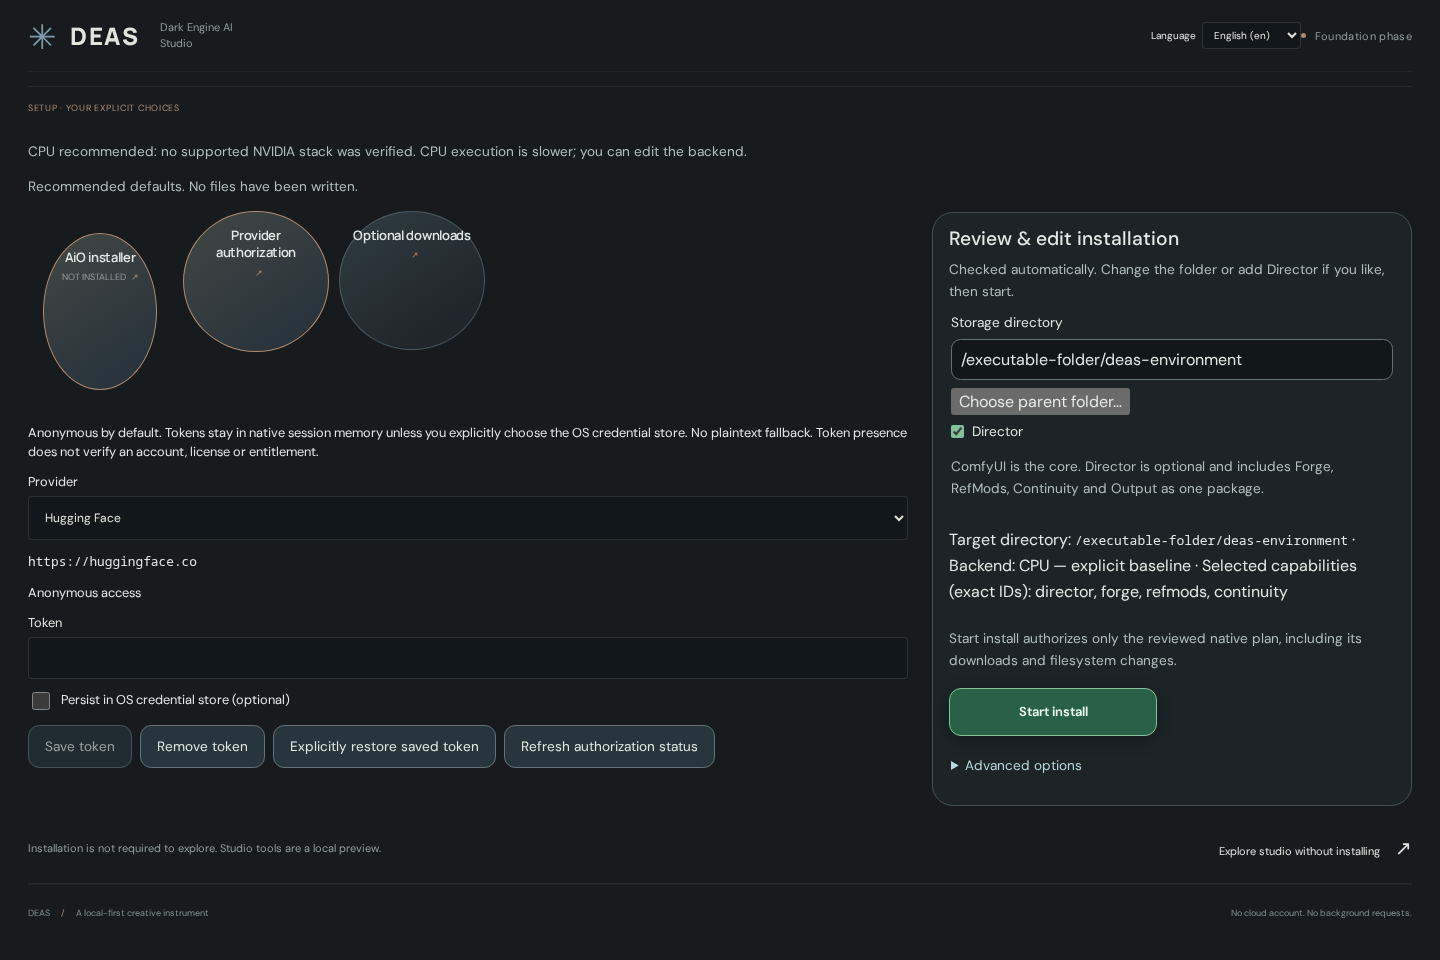
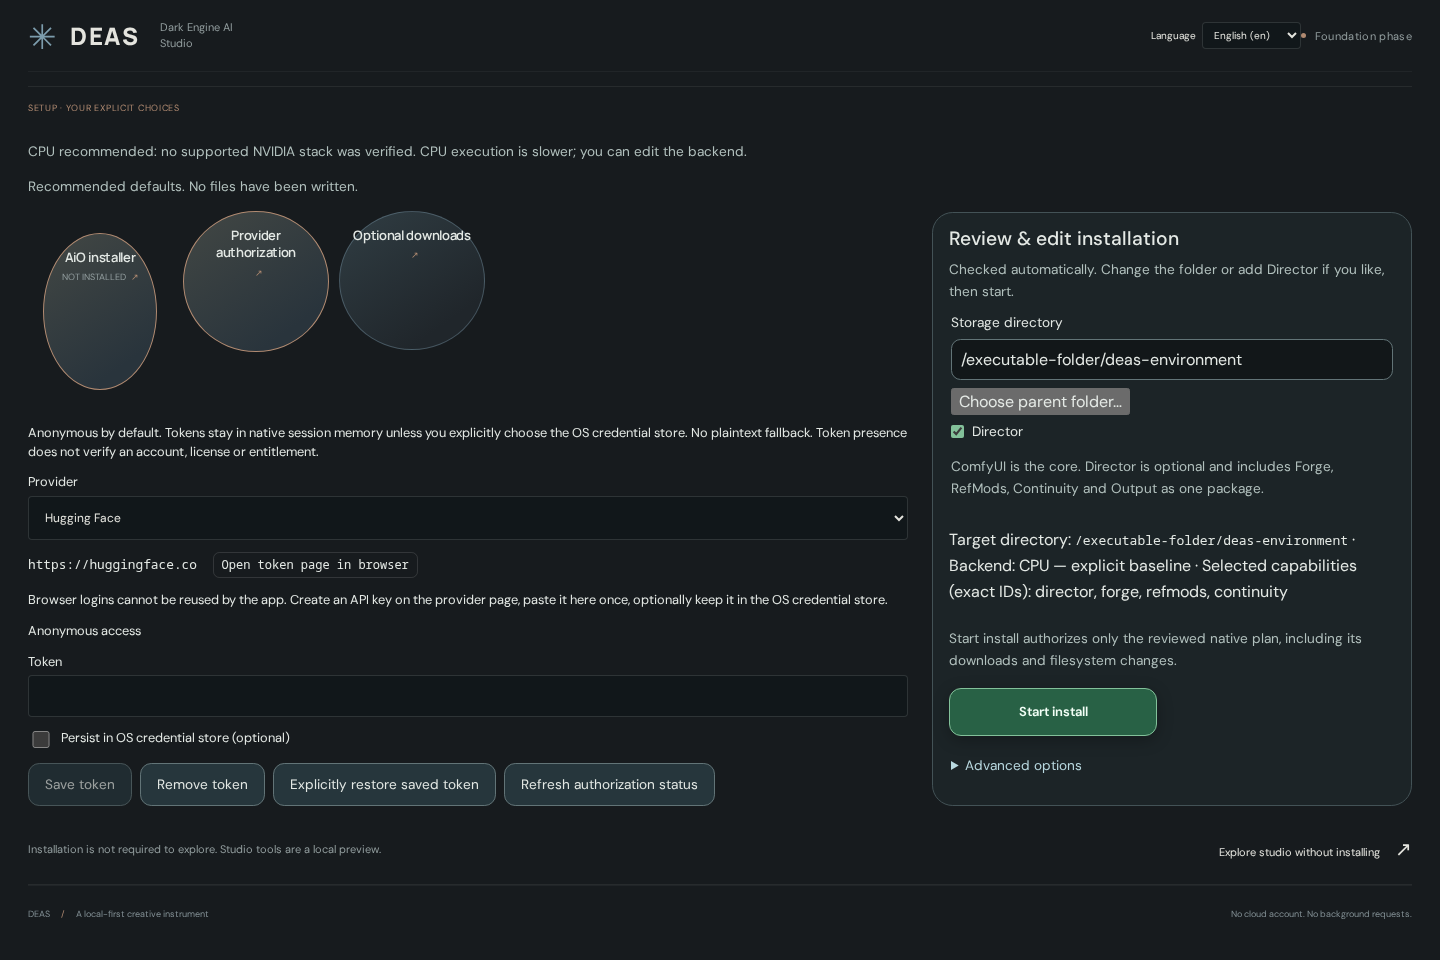
feat: open provider token page in system browser; center studio shell

diff --git a/src/features/downloads/DownloadPluginPanel.tsx b/src/features/downloads/DownloadPluginPanel.tsx
@@ -2,7 +2,7 @@ import { useCallback, useEffect, useRef, useState } from 'react';
 import { isTauri } from '@tauri-apps/api/core';
 import { NeuralBlob } from '../../components/neural/NeuralBlob';
 import { useI18n } from '../../i18n/I18nProvider';
-import { importDownloadCatalog, restoreAuthToken, browseDownloads, cancelDownloads, pickDownloadParent, planDownloads, readAuthStatus, readDownloadCatalog, readDownloadStatus, removeAuthToken, setAuthToken, startDownloads, comfyFolder } from '../../lib/downloads';
+import { importDownloadCatalog, restoreAuthToken, browseDownloads, cancelDownloads, pickDownloadParent, planDownloads, readAuthStatus, readDownloadCatalog, readDownloadStatus, removeAuthToken, setAuthToken, startDownloads, comfyFolder, openTokenPage } from '../../lib/downloads';
 import type { AuthMetadata, CatalogEntry, DownloadCatalog, DownloadListing, DownloadPlan, DownloadResource, DownloadScope, DownloadStatus } from '../../lib/downloads';
 import './downloads.css';
 
@@ -43,7 +43,8 @@ export function AuthPanel({onChange,open:openProp,onToggle}:AuthPanelProps={}) {
   {open&&<div className="download-controls">
    <p className="field-help">{t(io.native?'downloads.tokenHelp':'downloads.browser')}</p>
    <label>{t('downloads.provider')}<select aria-label={t('downloads.provider')} value={providerId} disabled={io.busy} onChange={e=>{clear();io.invalidate();setProviderId(e.target.value);}}>{authProviders.map(p=><option key={p.id} value={p.id}>{p.label}</option>)}</select></label>
-   <p className="download-identity">{authProviders.find(p=>p.id===providerId)?.origin}</p>
+   <p className="download-identity">{authProviders.find(p=>p.id===providerId)?.origin} <button type="button" className="download-link" disabled={!io.native||io.busy} onClick={()=>void io.request(()=>openTokenPage(providerId),()=>{})}>{t('downloads.openTokenPage')}</button></p>
+   <p className="field-help">{t('downloads.tokenPageHelp')}</p>
    <p role="status">{t(current?.configured?'downloads.supplied':'downloads.anonymous')}{current?.persisted&&<> · {t('downloads.persisted')}</>}</p>
    <label>{t('downloads.token')}<input aria-label={t('downloads.token')} ref={token} type="password" autoComplete="off" spellCheck={false} disabled={!io.native||io.busy} onChange={e=>setHasToken(!!e.target.value.trim())}/></label>
    <label className="download-check"><input type="checkbox" checked={persist} disabled={io.busy} onChange={e=>setPersist(e.target.checked)}/>{t('downloads.persist')}</label>

diff --git a/src/features/downloads/DownloadPluginPanel.test.tsx b/src/features/downloads/DownloadPluginPanel.test.tsx
@@ -121,3 +121,7 @@ it('hides adult entries until the NSFW switch is confirmed and sends the flag to
  expect(invoke).toHaveBeenLastCalledWith('native_download_browse',{request:{providerId:'fixture',scope:'index',locator:'https://example.invalid/a.json',authenticated:false,nsfw:true}});
  fireEvent.click(screen.getByRole('switch'));expect(screen.queryByLabelText('Remote file')).toBeNull();expect(confirm).toHaveBeenCalledTimes(2);confirm.mockRestore();
 });
+it('opens the fixed provider token page natively without sending any URL',async()=>{
+ mount(true);click('Provider authorization');fireEvent.change(screen.getByLabelText('Provider'),{target:{value:'civitai'}});click('Open token page in browser');await act(async()=>{});
+ expect(invoke).toHaveBeenCalledWith('native_open_token_page',{providerId:'civitai'});
+});

diff --git a/src/lib/downloads.ts b/src/lib/downloads.ts
@@ -30,3 +30,4 @@ export const restoreAuthToken=(providerId:string)=>native<AuthMetadata>('native_
 export const removeAuthToken=(providerId:string)=>native<AuthMetadata>('native_auth_remove',{providerId});
 /** Where a ComfyUI category lives inside a managed DEAS environment. */
 export const comfyFolder=(installTarget:string,category:string)=>`${installTarget}/ComfyUI/${category==='workflows'?'user/default/workflows':`models/${category}`}`;
+export const openTokenPage=(providerId:string)=>invoke<void>('native_open_token_page',{providerId});

diff --git a/src/features/downloads/downloads.css b/src/features/downloads/downloads.css
@@ -36,3 +36,4 @@
 .download-nsfw { justify-self: end; font-size: .75rem; color: var(--muted); }
 .download-nsfw-tag { top: auto; bottom: 2.4rem; left: auto; right: .55rem; color: #ffbaaa; }
 .download-resource .download-nsfw-tag { margin-left: .4rem; }
+.download-link { margin-left: .5rem; padding: .2rem .5rem; border: 1px solid #ffffff1f; border-radius: .4rem; background: transparent; color: var(--copper); font: inherit; font-size: .75rem; }

diff --git a/src/styles.css b/src/styles.css
@@ -52,7 +52,7 @@ button:disabled {
 .studio-shell {
   max-width: 1480px;
   padding: 0 28px;
-  margin: 0;
+  margin: 0 auto;
 }
 .masthead {
   height: 72px;

diff --git a/src-tauri/src/token_page.rs b/src-tauri/src/token_page.rs
@@ -1,0 +1,52 @@
+//! Opens a provider's own token page in the system browser so the user can copy an API key.
+//! URLs are a fixed allowlist; nothing from the UI reaches the shell.
+use std::process::Command;
+
+fn token_page(provider_id: &str) -> Option<&'static str> {
+    match provider_id {
+        "huggingface" => Some("https://huggingface.co/settings/tokens"),
+        "civitai" => Some("https://civitai.com/user/account"),
+        "github" => Some("https://github.com/settings/tokens"),
+        _ => None,
+    }
+}
+
+#[tauri::command]
+pub fn native_open_token_page(provider_id: String) -> Result<(), String> {
+    let url = token_page(&provider_id).ok_or("Unknown provider")?;
+    #[cfg(target_os = "linux")]
+    let mut cmd = {
+        let mut c = Command::new("xdg-open");
+        c.arg(url);
+        c
+    };
+    #[cfg(target_os = "windows")]
+    let mut cmd = {
+        let mut c = Command::new("cmd");
+        c.args(["/C", "start", "", url]);
+        c
+    };
+    #[cfg(target_os = "macos")]
+    let mut cmd = {
+        let mut c = Command::new("open");
+        c.arg(url);
+        c
+    };
+    cmd.spawn()
+        .map(|_| ())
+        .map_err(|e| format!("Could not open browser: {e}"))
+}
+
+#[cfg(test)]
+mod tests {
+    use super::*;
+    #[test]
+    fn only_allowlisted_providers_have_pages() {
+        assert_eq!(
+            token_page("civitai"),
+            Some("https://civitai.com/user/account")
+        );
+        assert!(token_page("https://evil.example").is_none());
+        assert!(native_open_token_page("nope".into()).is_err());
+    }
+}

diff --git a/src-tauri/src/main.rs b/src-tauri/src/main.rs
@@ -37,6 +37,7 @@ fn main() {
             deas::native_pick_directory,
             deas::native_media_list,
             deas::native_media_describe,
+            deas::native_open_token_page,
             deas::native_detect_hardware,
             deas::native_install_defaults,
             deas::native_install_plan,

diff --git a/src-tauri/src/lib.rs b/src-tauri/src/lib.rs
@@ -25,6 +25,8 @@ pub mod directory;
 pub use directory::native_pick_directory;
 pub mod media;
 pub use media::{native_media_describe, native_media_list};
+pub mod token_page;
+pub use token_page::native_open_token_page;
 pub mod install_defaults;
 pub use install_defaults::native_install_defaults;
 pub mod install;
